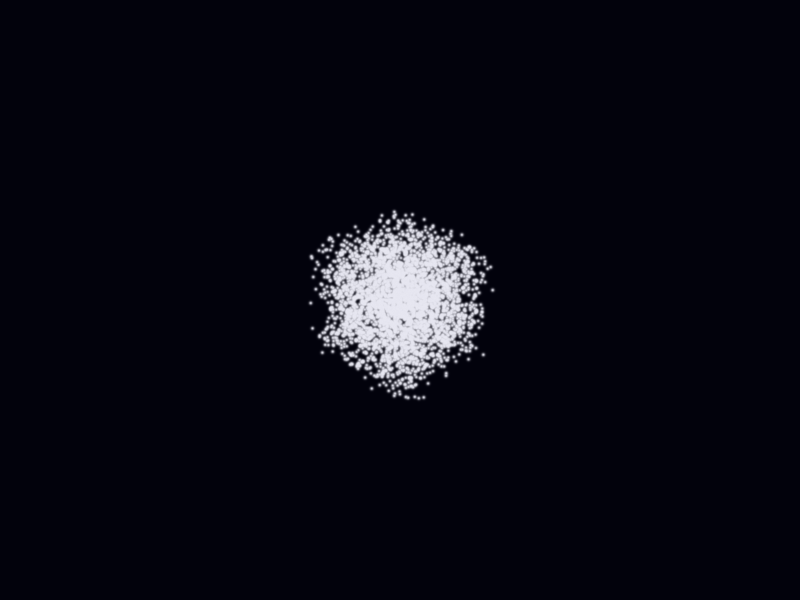
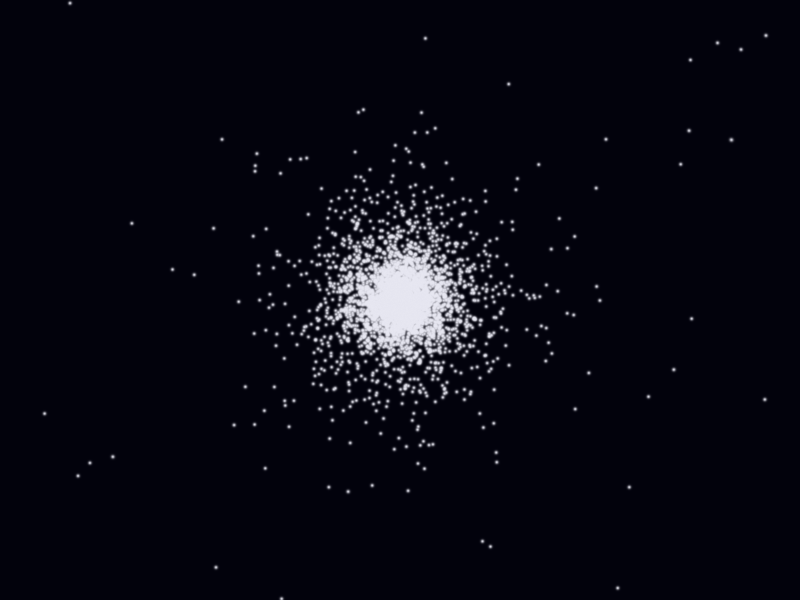
Run 2 (10 free-fall times): DISPERSE confirmed -- no dissipation, no settling
Observation window derived from t_ff = 1/sqrt(G*rho) = 4.94 units and
recorded in THE_KERNEL.md before the run; FREE force constants untouched.
98,822 ticks. The draw acted: a 1313-point clump formed by 1.5 t_ff --
then thermalized and evaporated. Bound fraction peaked 0.187, settled
~0.12; radius grew 10 -> 127 monotonically; cluster count stable
(CV 0.007, no flicker). Frames show a hot bright core bleeding outliers.

Verdict: DISPERSE (radius > 10x initial). The two-force balance cannot
settle because energy has nowhere to go. This is the refutation the
doctrine pre-named: the successor is a dissipation channel -- energy
the balance radiates away as light.

Agent: kimi-k3 (operator session)

diff --git a/LightEngine/demo_seed.py b/LightEngine/demo_seed.py
@@ -32,8 +32,18 @@ N = 4096
 SEED = 20260806
 BOX = 10.0                 # positions uniformly in [-BOX/2, BOX/2]^3
 VEL_SIGMA = 1.0            # structureless Gaussian velocity dispersion
-TOTAL_TICKS = 1000
-SAMPLE_EVERY = 25
+
+# ── Observation window (derived, not picked — THE_KERNEL.md) ────────
+# Run 1 used TOTAL_TICKS=1000 = 0.5 time units = 0.10 t_ff and fired
+# DISPERSE on a window too short for the draw to act.  The window is
+# derived from the free-fall time of the initial cloud:
+#   t_ff = 1/sqrt(G * rho), rho = N / BOX^3
+# Declared before this run: observe for T_FF_COUNT free-fall times.
+T_FF_COUNT = 10
+RHO = N / BOX ** 3
+T_FF = 1.0 / math.sqrt(G * RHO)
+TOTAL_TICKS = int(math.ceil(T_FF_COUNT * T_FF / DT))
+SAMPLE_EVERY = max(1, TOTAL_TICKS // 40)
 METRIC_R_INNER = R_BOND * 0.5
 METRIC_R_OUTER = R_C
 

diff --git a/docs/THE_KERNEL.md b/docs/THE_KERNEL.md
@@ -60,6 +60,22 @@ The fundamental constants (G, r_wall, r_bond, r_c, p, ε) are the seed's free nu
 the light era's `FREE` dict. Their RATIOS decide whether a balance region exists at all;
 they are declared here once, before the run, and the falsifier judges them as a set.
 
+## THE OBSERVATION WINDOW (derived 2026-08-06, after run 1)
+
+**Run 1 (1000 ticks, dt = 5e-4): verdict DISPERSE.** Diagnosis before any change: the run
+simulated 0.5 time units. The free-fall time of the initial cloud is
+
+    t_ff = 1 / sqrt(G * rho),   rho = N / BOX^3 = 4096 / 1000 = 4.096 lu^-3
+    t_ff = 1 / sqrt(0.01 * 4.096) = 4.94 time units
+
+Run 1 observed 0.10 t_ff — the draw never had time to act; the falsifier fired on the
+observation window, not on the force balance. `TOTAL_TICKS=1000` had been picked, not
+derived. This is the correction, recorded per the falsifier clause: **the observation
+window is derived from the free-fall time** — observe for 10 t_ff (≈ 98,820 ticks at
+dt = 5e-4). The FREE force constants are untouched. If DISPERSE (or COLLAPSE, or
+FLICKER) fires again over 10 t_ff, the refutation is real and the named successor —
+dissipation as radiated light — is the next build.
+
 ## THE REFEREE (the dyad for numbers)
 
 Two independent implementations of the same declared laws — the GPU kernel (fast, the
